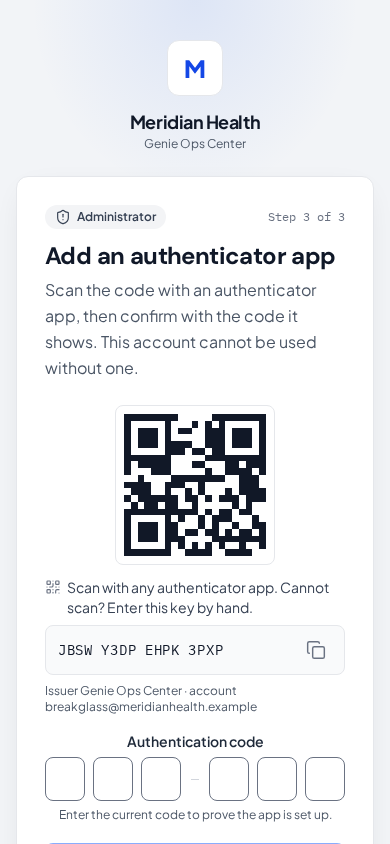
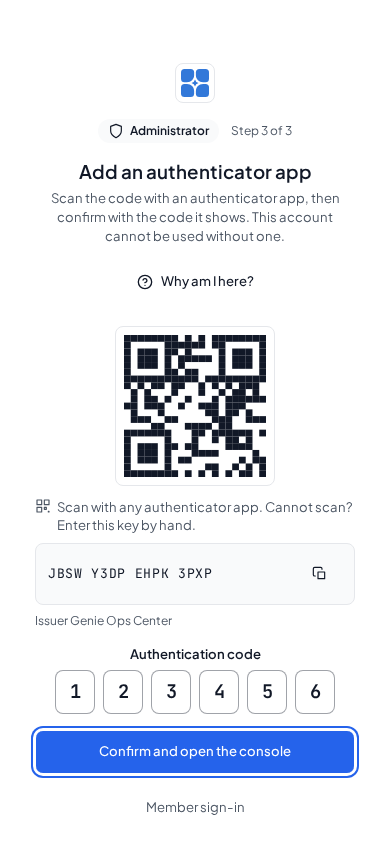
docs(design): import the sign-in stack captures
Workspace commit 09c2cdc replaced the sign-in and break-glass card captures with captures of the D2 build and corrected the spec: no strength meter, the setup note behind a help button, and the 44 px phone touch target.

Changed region(s): [[0.0615, 0.0, 0.9231, 0.9858], [0.0923, 0.5853, 0.1231, 0.6161]]

diff --git a/docs/design/sections/sign-in-and-tenant-pages/spec.md b/docs/design/sections/sign-in-and-tenant-pages/spec.md
@@ -2,7 +2,7 @@
 
 Owner decision 2026-09-27 (`../../decisions-open-2026-09-19.md`, row B6): an existing local account keeps the same sign-in route after local-account creation is switched off. While any local account exists, the sign-in page keeps "Sign in with email and password", and the realm keeps its password form and reset flow (Specification 02 R-51a).
 
-Redesign 2026-10-27 (owner, approved direction D2): the sign-in page is one centered stack with no card. The captures in this folder that show a card predate the redesign and are replaced when the redesign is built.
+Redesign 2026-10-27 (owner, approved direction D2): the sign-in page is one centered stack with no card. The sign-in and break-glass captures in this folder come from the build of 2026-10-28.
 
 ## Overview
 The pages a person sees before a session exists. Members sign in through the tenant's Keycloak realm, so the Genie sign-in page is a branded page with a "Sign in with SSO" button, a "Sign in with email and password" button when the realm allows local accounts, and no email field. A hidden break-glass administrator door at `/admin/login` uses a password and an authenticator-app code. One deployment serves one customer at one `PUBLIC_URL`; the app never inspects the hostname, so there is no tenant resolution and no not-found or suspended page. One standalone page covers the gap before setup: a not-set-up page shown on every route until `genie-ops setup` completes. A limited break-glass session, which still has to change its password or enroll an authenticator, has no page of its own: every other page sends it back to `/admin/login`, which opens at the next unmet step. All of these render without the app shell.
@@ -21,12 +21,12 @@ The pages a person sees before a session exists. Members sign in through the ten
 - Visitor opens any route of a deployment where `genie-ops setup` has not completed and sees the not-set-up page with the progress of the setup steps the running image knows (seven once Section 2 is deployed). The health endpoint reports degraded. Nothing on the page is actionable by a visitor.
 
 ## UI Requirements
-- Centered stack, no card (redesign 2026-10-27, mockup direction D2): one column of about 320px in the middle of the page, light and dark, phone and desktop. Top to bottom: the tenant logo mark alone (or the letter tile fallback), with no wordmark that repeats the heading; the heading "Sign in to Genie Ops Center" in Plus Jakarta Sans; the notice when there is one; the sign-in buttons. Each button fills the stack width at the 40px default control height, with no arrow icon and no explanation line under it. "Sign in with SSO" is the primary button and always shows. "Sign in with email and password" is the outline button and shows only when the realm allows local accounts (Specification 02 R-17c). No password field sits on this page, because the password form is the realm's own page. The page has no "Welcome" line, no "Genie" wordmark over the product name, and no product name in a footer, because each repeats the heading.
+- Centered stack, no card (redesign 2026-10-27, mockup direction D2): one column of about 320px in the middle of the page, light and dark, phone and desktop. Top to bottom: the tenant logo mark alone (or the letter tile fallback), with no wordmark that repeats the heading; the heading "Sign in to Genie Ops Center" in Plus Jakarta Sans; the notice when there is one; the sign-in buttons. Each button fills the stack width at the 40px default control height on desktop and the 44px touch target under 1024px, with no arrow icon and no explanation line under it. "Sign in with SSO" is the primary button and always shows. "Sign in with email and password" is the outline button and shows only when the realm allows local accounts (Specification 02 R-17c). No password field sits on this page, because the password form is the realm's own page. The page has no "Welcome" line, no "Genie" wordmark over the product name, and no product name in a footer, because each repeats the heading. A welcome text that the tenant sets in Branding shows as one muted line under the heading.
 - Sign-in page reads tenant branding: logo for the current theme, background image or color, support contact, terms and privacy links. When Branding sets the links or the support contact, they sit in one small muted line under the stack. No hostname is shown anywhere.
 - System-use notice renders as a bordered block in the stack above the buttons, in body type, with an optional checkbox "I acknowledge these conditions." that gates the buttons.
 - Status notices sit between the heading and the buttons at the stack width, built with the shared `Alert` in a tone per cause. Signed out and session expired use the info tone with the `Info` icon and `role="status"`, for example "You were signed out after 15 minutes of inactivity. Sign in again." Not registered and access disabled use the warning tone with `role="alert"`, because the realm authenticated the person and Genie refused them. Never one gray box with `role="alert"` for every cause.
 - The break-glass sign-in at `/admin/login` uses the same stack, width, logo mark and buttons, with its own fields and no card. The show-password toggle is an eye button inside the password field (an Input Group item). The "Step n of m" counter is muted text in the body font, not monospace.
-- Break-glass steps show a blue-tinted Administrator pill and the muted "Step n of m" counter above the fields, m being the number of steps the account still has to pass: two for an enrolled account (credentials, code), three for a first sign-in (credentials, change password, enroll). Step one: email and password with a show-password toggle; when rate limited, a neutral gray notice sits above the fields, the fields and the button are disabled, and there is no retry control. Code step, enrolled accounts only: six one-digit code boxes with a "Use a different account" link back to step one. Forced change: current, new, and confirm password with a strength meter that applies the shared rule (14 characters, three of four character classes, not equal to the email); the fourth rule, not the provisioning password, is checked only on submit and shown neutral ("Checked when you save") with no check mark. The meter is gray until the rule is met and emerald once it is. Enrollment: a QR code, the manual key in mono groups of four with a copy button, and one six-digit code entered in six boxes; the account is enrolled only after one valid code. The change-password and enrollment steps both carry the note "Until you finish setup, every other page brings you back here.", because the open step can be the password change. A "Member sign-in" link under the stack returns to the member sign-in page.
+- Break-glass steps show a blue-tinted Administrator pill and the muted "Step n of m" counter above the fields, m being the number of steps the account still has to pass: two for an enrolled account (credentials, code), three for a first sign-in (credentials, change password, enroll). Step one: email and password with a show-password toggle; when rate limited, a neutral gray notice sits above the fields, the fields and the button are disabled, and there is no retry control. Code step, enrolled accounts only: six one-digit code boxes with a "Use a different account" link back to step one. Forced change: current, new, and confirm password with a checklist that applies the shared rule (14 characters, three of four character classes, not equal to the email). Each met rule shows a check mark. The fourth rule, not the provisioning password, is checked only on submit and shown neutral ("Checked when you save") with no check mark. There is no strength bar and no "Meets the rule" label, because the checklist says the same. Enrollment: a QR code, the manual key in mono groups of four with a copy button, and one six-digit code entered in six boxes; the account is enrolled only after one valid code. The change-password and enrollment steps both carry a "Why am I here?" help button under the subtitle, which opens "Until you finish setup, every other page brings you back here.", because the open step can be the password change. A "Member sign-in" link under the stack returns to the member sign-in page.
 - The six code boxes are one labeled group, used on the code step and on the enrollment step alike. A `fieldset` with a visible `legend` names it ("Authentication code"), each box carries its own `aria-label` ("Digit 1 of 6"), and the group sets `inputmode="numeric"` with `autocomplete="one-time-code"` so a phone offers the code from its messages. Typing a digit advances one box, Backspace on an empty box steps back, the arrow keys move without changing a value, and pasting a six-digit string fills every box and moves focus to the last one. A wrong code clears every box, returns focus to the first, and announces the error through the form-level `role="alert"` block, so the message is not lost to a screen reader.
 - Inline errors sit under the field or as a compact error block above the action. Copy never says whether an email exists.
 - Not-set-up page: standalone, neutral gray, not tenant-branded beyond the product name because branding may not be seeded yet. Heading "This deployment is not set up yet", one line "An operator must finish `genie-ops setup` before anyone can sign in.", then a progress list of the `setup_step` rows in `../../../architecture/data-shape.md` (`migrations`, `seed`, `realm`, `clients`, `roles`, `admin_seed`, `break_glass`, in run order; the identity provider is not a step, `DEC-36`) each marked pending, done, or failed, with a detail line under a failed step. No button. A support line appears only when tenant branding provides a support contact.

diff --git a/docs/design/imports/2026-10-28-sign-in-stack-captures.md b/docs/design/imports/2026-10-28-sign-in-stack-captures.md
@@ -1,0 +1,61 @@
+# Design import, 2026-10-28: the sign-in stack captures
+
+Status: imported reference snapshot. It is not blanket design approval. The [2026-10-28 batch 5 rules import](2026-10-28-batch-5-rules.md) stays the record for the sign-in redesign rule itself.
+
+## Owner decision
+
+The batch 5 fix list, rows "Sign-in pages (redesign)", "Password step: Meets the rule" and "Password reveal with Input Group" (owner, 2026-10-27): the sign-in page, its Branding preview and the break-glass door use one centered stack with no card (approved direction D2). The build follows it from v2 commits `7d15cf52`, `50b5723a` and `5ca4b84d`. The 44px phone height of the sign-in buttons follows the touch-target rule in `DESIGN.md`.
+
+## Source and method
+
+Source: `/home/kenan/work/genie-ops-center-design`, branch `chore/product-baseline`, commit `09c2cdc` (`docs(product): capture the sign-in stack from the build`). The mapping is `product/<path>` to `docs/design/<path>`. HEAD reproduces these files. The workspace still holds uncommitted files under `src/` and elsewhere. This import does not take them.
+
+The captures come from the running build of the batch 5 worktree, not from the workspace preview app. Each file keeps its old name and size.
+
+- The sign-in page states come from the dev app: `/sign-in` and `/sign-in?error=<cause>` for `signed_out`, `session_expired`, `not_registered` and `access_disabled`.
+- The break-glass credentials step comes from the dev app at `/admin/login`.
+- The two-entry page (`SignInView` story `SsoAndLocalAccounts`) and the break-glass error, rate-limited, code, password-change and enrollment steps (`Core/Break-glass sign-in` stories) come from Storybook. The development tenant has no local accounts, and those door steps need a break-glass session. The error capture sets the story's `error` arg to "Invalid email or password.", the text that `/admin/login` shows.
+
+Text changes in the same commit:
+
+- `spec.md`: the captures note, the 44px phone touch target, the welcome line that a tenant sets, the checklist that replaces the strength meter and "Meets the rule", and the "Why am I here?" help that replaces the setup footer note.
+- `data.json`: `signInState` names the notice between the heading and the buttons, not the top of a card.
+
+| File | Size | SHA-256 of the imported file |
+| --- | --- | --- |
[29 lines of base64/hex data omitted]
+
+## Limitations
+
+- Pairs of old file names now hold the same capture: `signin.png` and `sign-in-page.png`, `break-glass.png` and `break-glass-sign-in.png`, and their phone files. The old files were also near copies. No file was removed, because other records name them.
+- The Storybook captures show the state that each story's play function leaves: typed fields, and a focus ring on the last button that it pressed.
+- The development build draws the TanStack Devtools button in the lower right corner of the dev app captures. It is not part of the product.
+- The not-set-up captures did not change. They show no sign-in stack.

diff --git a/docs/design/CHANGELOG.md b/docs/design/CHANGELOG.md
@@ -4,6 +4,12 @@ One entry per design change in this repository, newest first. Each entry names w
 
 ## 2026-10-28
 
+### Changed, the sign-in and break-glass captures
+
+- The 29 sign-in and break-glass captures now come from the build, which follows direction D2: one centered 320px stack with the tenant mark, the heading, the notice and full-width buttons, and no card (owner, 2026-10-27). The sign-in buttons are 40px on desktop and 44px under 1024px.
+- The spec drops the break-glass strength meter and "Meets the rule", puts the setup note behind a "Why am I here?" help button, and names the welcome line that a tenant sets.
+- Files: `product/sections/sign-in-and-tenant-pages/{spec.md,data.json}` and the `sign-in-page*`, `signin*` and `break-glass*` captures there. Record: `imports/2026-10-28-sign-in-stack-captures.md`.
+
 ### Changed, the Modules phone capture
 
 - The Modules phone capture now comes from the build, which follows the approved phone mockup: the switch on the name's line, the id in muted mono, one description line, a labelled full-width category select, and a "Who can open it" row that links to Roles (owner, 2026-10-27).
